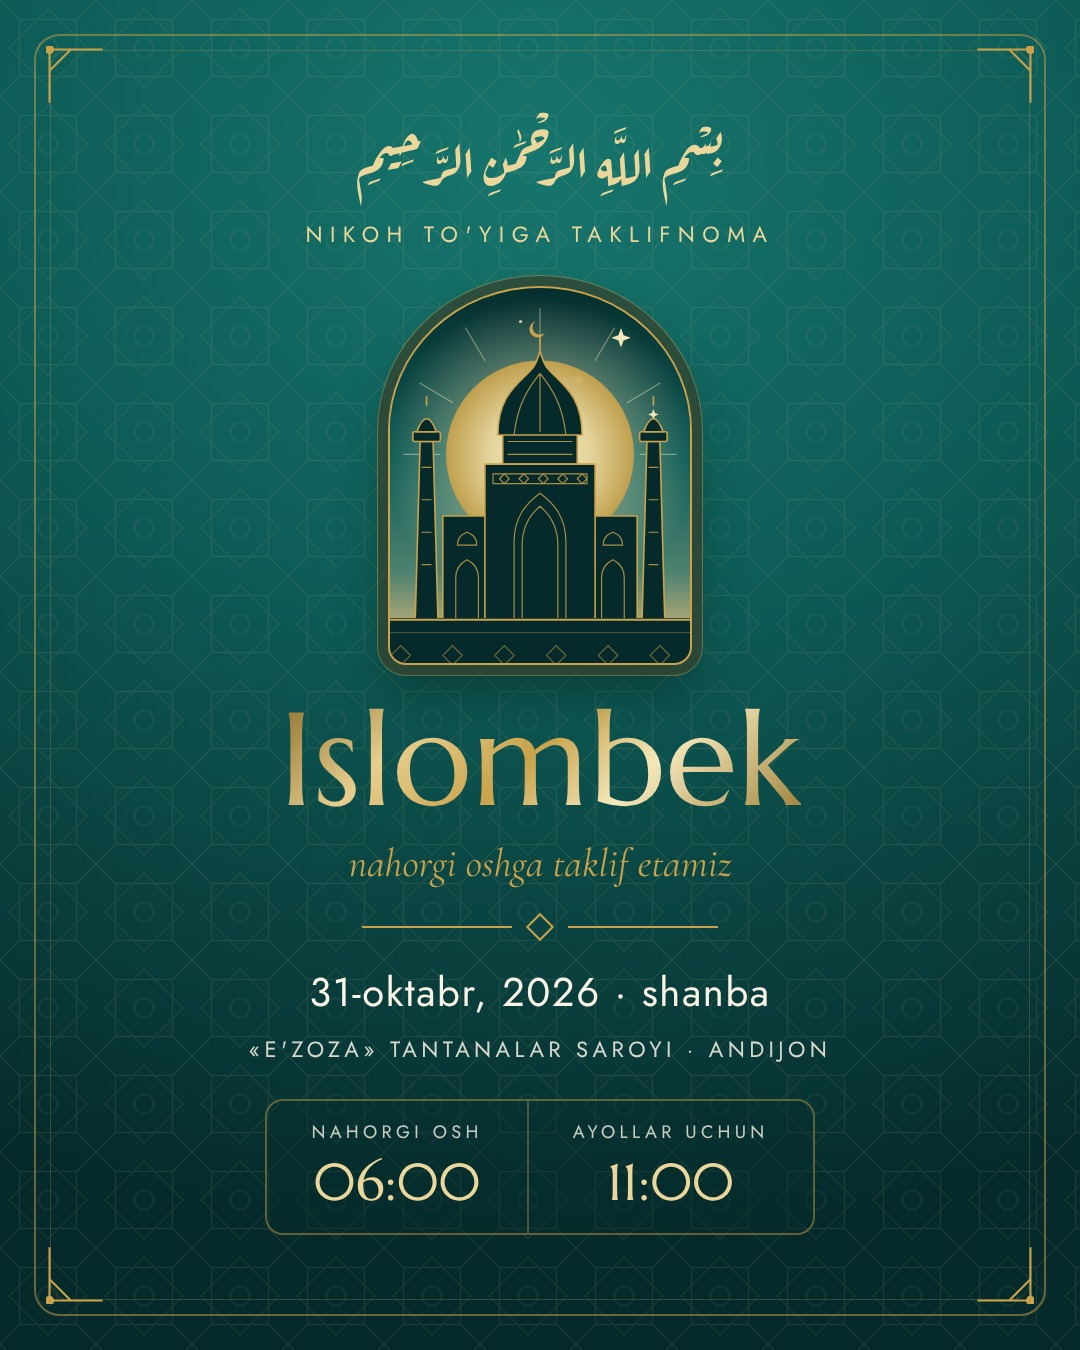
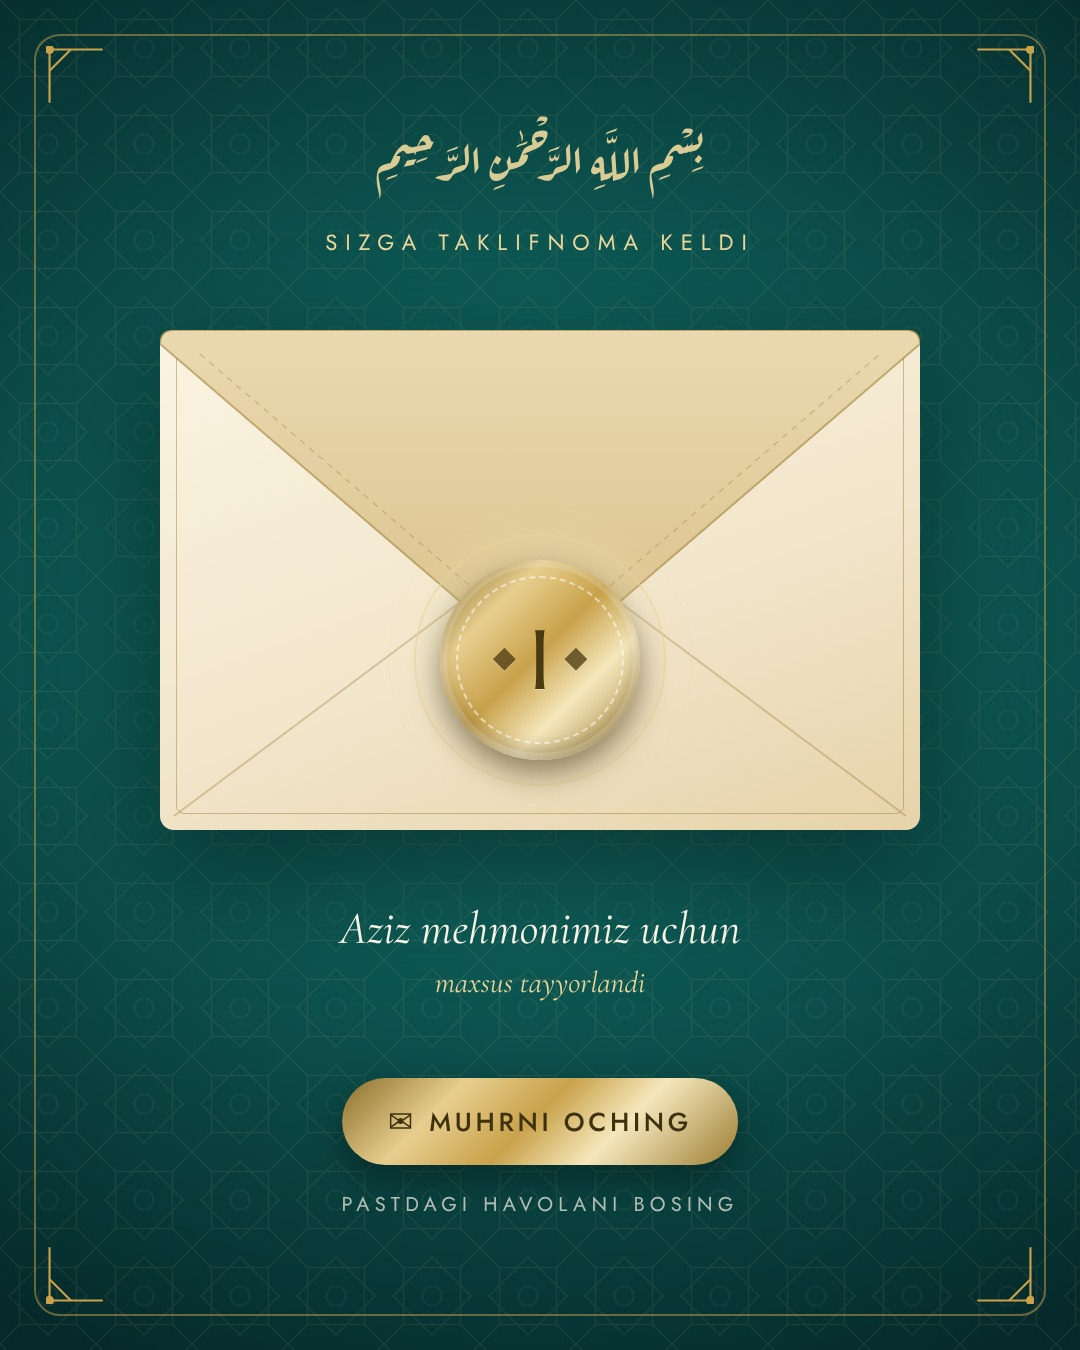
Telegram rasmi: muhrlangan konvert — tafsilotlar yo'q, linkni bosishga undaydi
Avvalgi rasmda sana, vaqt, joy bor edi — mehmon linkni ochmasdi.
Endi faqat yopiq konvert va oltin muhr; saytda ham shu muhr kutib oladi.

Claude-Session: https://claude.ai/code/session_01MzyA1Gsh5s9HjPubU1fQyQ

diff --git a/tools/taklifnoma-rasm.html b/tools/taklifnoma-rasm.html
@@ -1,5 +1,5 @@
 <!DOCTYPE html><html><head><meta charset="utf-8">
-<link href="https://fonts.googleapis.com/css2?family=Aref+Ruqaa&family=Marcellus&family=Cormorant+Garamond:ital,wght@0,400;1,400&family=Jost:wght@300;400;500&display=swap" rel="stylesheet">
+<link href="https://fonts.googleapis.com/css2?family=Aref+Ruqaa&family=Marcellus&family=Cormorant+Garamond:ital,wght@0,400;0,600;1,400&family=Jost:wght@300;400;500&display=swap" rel="stylesheet">
 <style>
 :root{
   --ink:#10262A;
@@ -34,128 +34,59 @@
 *{margin:0;padding:0;box-sizing:border-box}
 html,body{width:1080px;height:1350px}
 body{position:relative;overflow:hidden;color:var(--cream);font-family:'Jost',sans-serif;text-align:center;
-  background:radial-gradient(120% 80% at 50% 12%,var(--teal-600) 0%,var(--teal-700) 42%,var(--teal-900) 100%)}
-.girih{position:absolute;inset:0;background:var(--girih-lt);background-size:96px;opacity:.10}
+  background:radial-gradient(90% 60% at 50% 46%,#17756D 0%,#0E5C57 38%,#062A2B 100%)}
+.girih{position:absolute;inset:0;background:var(--girih-lt);background-size:96px;opacity:.09}
 .frame{position:absolute;inset:34px;border:2px solid rgba(201,162,75,.5);border-radius:26px}
-.frame2{position:absolute;inset:50px;border:1px solid rgba(201,162,75,.25);border-radius:18px}
 .c{position:absolute;width:78px;height:78px;background:no-repeat center/contain var(--corner)}
 .tl{top:46px;left:46px}.tr{top:46px;right:46px;transform:scaleX(-1)}.bl{bottom:46px;left:46px;transform:scaleY(-1)}.br{bottom:46px;right:46px;transform:scale(-1,-1)}
-.in{position:absolute;inset:0;display:flex;flex-direction:column;align-items:center;justify-content:center;padding:90px}
-.bism{font-family:'Aref Ruqaa',serif;font-size:56px;color:var(--gold-lt);line-height:1.6}
-.eye{margin-top:14px;font-size:22px;letter-spacing:.34em;text-transform:uppercase;color:var(--gold-lt)}
-.arch{width:300px;margin:38px 0 30px}
-.arch__inner{position:relative;aspect-ratio:4/5;border-radius:50% 50% 16px 16px/38% 38% 16px 16px;overflow:hidden;
-  box-shadow:0 0 0 2px var(--gold),0 0 0 12px rgba(6,42,43,.6),0 0 0 13px rgba(201,162,75,.45),0 24px 50px rgba(0,0,0,.35)}
-.arch svg{position:absolute;inset:-4%;width:108%;height:108%}
-.name{font-family:'Marcellus',serif;font-size:132px;line-height:1;background:var(--foil);-webkit-background-clip:text;background-clip:text;color:transparent}
-.sub{font-family:'Cormorant Garamond',serif;font-style:italic;font-size:40px;color:var(--gold);margin-top:14px}
-.orn{display:flex;align-items:center;gap:18px;margin:30px 0 26px}
-.orn i{width:150px;height:2px;background:var(--gold)}
-.orn b{width:20px;height:20px;border:2px solid var(--gold);transform:rotate(45deg)}
-.date{font-size:40px;letter-spacing:.04em}
-.venue{margin-top:12px;font-size:22px;letter-spacing:.2em;text-transform:uppercase;color:rgba(250,244,231,.85)}
-.times{display:flex;margin-top:34px;border:2px solid rgba(201,162,75,.45);border-radius:18px;background:rgba(6,42,43,.3)}
-.times div{padding:18px 44px}.times div+div{border-left:2px solid rgba(201,162,75,.35)}
-.times span{display:block;font-size:18px;letter-spacing:.24em;text-transform:uppercase;color:rgba(250,244,231,.8)}
-.times strong{display:block;font-family:'Marcellus',serif;font-weight:400;font-size:52px;color:var(--gold-lt);margin-top:4px}
+.bism{position:absolute;top:118px;left:0;right:0;font-family:'Aref Ruqaa',serif;font-size:50px;color:var(--gold-lt);opacity:.92}
+.eye{position:absolute;top:226px;left:0;right:0;font-size:22px;letter-spacing:.36em;text-transform:uppercase;color:var(--gold-lt)}
+
+/* Konvert */
+.env{position:absolute;left:50%;top:330px;width:760px;height:500px;transform:translateX(-50%);
+  filter:drop-shadow(0 40px 60px rgba(0,0,0,.45))}
+.env__body{position:absolute;inset:0;border-radius:14px;
+  background:linear-gradient(160deg,#FBF4E2 0%,#F2E6CC 55%,#E6D3AA 100%)}
+.env__body::before{content:"";position:absolute;inset:16px;border:1.5px solid rgba(154,121,48,.45);border-radius:8px}
+.env svg{position:absolute;inset:0;width:100%;height:100%}
+/* Muhr */
+.seal{position:absolute;left:50%;top:330px;transform:translate(-50%,-50%);width:200px;height:200px}
+.glow{position:absolute;inset:-70px;border-radius:50%;background:radial-gradient(circle,rgba(245,231,188,.55) 0%,rgba(245,231,188,0) 65%)}
+.wax{position:absolute;inset:0;border-radius:50%;background:var(--foil);
+  box-shadow:0 14px 30px rgba(62,49,16,.55),inset 0 0 0 7px rgba(255,255,255,.18),inset 0 -10px 18px rgba(74,58,18,.35)}
+.wax::before{content:"";position:absolute;inset:16px;border-radius:50%;border:2px dashed rgba(255,255,255,.55)}
+.wax b{position:absolute;inset:0;display:flex;align-items:center;justify-content:center;gap:12px;
+  font-family:'Marcellus',serif;font-weight:400;font-size:84px;color:#4A3A12;text-shadow:0 1px 0 rgba(255,255,255,.35)}
+.wax b i{font-style:normal;font-size:24px;opacity:.75}
+.ring{position:absolute;inset:-26px;border-radius:50%;border:2px solid rgba(235,214,155,.55)}
+.ring2{position:absolute;inset:-52px;border-radius:50%;border:1px solid rgba(235,214,155,.25)}
+
+.for{position:absolute;top:900px;left:0;right:0;font-family:'Cormorant Garamond',serif;font-style:italic;font-size:46px;color:var(--cream)}
+.for small{display:block;font-size:30px;color:var(--gold-lt);margin-top:8px}
+.cta{position:absolute;top:1078px;left:50%;transform:translateX(-50%);display:flex;align-items:center;gap:16px;white-space:nowrap;
+  padding:22px 46px;border-radius:999px;background:var(--foil);color:#3E3110;
+  font-size:26px;font-weight:500;letter-spacing:.14em;text-transform:uppercase;box-shadow:0 14px 34px rgba(0,0,0,.35)}
+.cta span{font-size:30px;letter-spacing:0}
+.hint{position:absolute;top:1190px;left:0;right:0;font-size:20px;letter-spacing:.26em;text-transform:uppercase;color:rgba(250,244,231,.7)}
 </style></head><body>
-<div class="girih"></div><div class="frame"></div><div class="frame2"></div>
+<div class="girih"></div><div class="frame"></div>
 <span class="c tl"></span><span class="c tr"></span><span class="c bl"></span><span class="c br"></span>
-<div class="in">
-  <p class="bism" dir="rtl">بِسْمِ اللَّهِ الرَّحْمَٰنِ الرَّحِيمِ</p>
-  <p class="eye">Nikoh to'yiga taklifnoma</p>
-  <div class="arch"><div class="arch__inner"><svg class="arch__art" id="archArt" viewBox="0 0 200 250" preserveAspectRatio="xMidYMax slice" aria-hidden="true">
-          <defs>
-            <linearGradient id="artSky" x1="0" y1="0" x2="0" y2="1">
-              <stop offset="0" stop-color="#062A2B"/>
-              <stop offset=".46" stop-color="#0E5C57"/>
-              <stop offset=".74" stop-color="#4E8270"/>
-              <stop offset=".9" stop-color="#C9B278"/>
-              <stop offset="1" stop-color="#EBD69B"/>
-            </linearGradient>
-            <radialGradient id="artSun" cx=".5" cy=".5" r=".5">
-              <stop offset="0" stop-color="#FFF4D2"/>
-              <stop offset=".55" stop-color="#EBD69B"/>
-              <stop offset="1" stop-color="#C9A24B"/>
-            </radialGradient>
-            <radialGradient id="artGlow" cx=".5" cy=".5" r=".5">
-              <stop offset="0" stop-color="#F5E7BC" stop-opacity=".75"/>
-              <stop offset="1" stop-color="#F5E7BC" stop-opacity="0"/>
-            </radialGradient>
-          </defs>
+<p class="bism" dir="rtl">بِسْمِ اللَّهِ الرَّحْمَٰنِ الرَّحِيمِ</p>
+<p class="eye">Sizga taklifnoma keldi</p>
 
-          <rect width="200" height="250" fill="url(#artSky)"/>
-
-          <!-- tong: yulduzlar hali so'nmagan -->
-          <g class="art__sky">
-            <path class="art__star" d="M150 34l1.6 4.4 4.4 1.6-4.4 1.6-1.6 4.4-1.6-4.4-4.4-1.6 4.4-1.6Z" fill="#F5E7BC"/>
-            <path class="art__star art__star--2" d="M124 62l1 2.8 2.8 1-2.8 1-1 2.8-1-2.8-2.8-1 2.8-1Z" fill="#F5E7BC"/>
-            <path class="art__star art__star--3" d="M170 84l.9 2.4 2.4.9-2.4.9-.9 2.4-.9-2.4-2.4-.9 2.4-.9Z" fill="#F5E7BC"/>
-            <circle cx="88" cy="30" r="1" fill="#F5E7BC" opacity=".8"/>
-            <circle cx="34" cy="96" r=".9" fill="#F5E7BC" opacity=".6"/>
-            <circle cx="182" cy="52" r=".9" fill="#F5E7BC" opacity=".7"/>
-          </g>
-
-          <!-- chiqayotgan quyosh -->
-          <g class="art__sun">
-            <circle cx="100" cy="112" r="96" fill="url(#artGlow)"/>
-            <g stroke="#F5E7BC" stroke-width=".7" stroke-linecap="round" opacity=".45">
-              <path d="M100 44V22M66 54 54 34M134 54 146 34M46 80 26 68M154 80 174 68M38 112H16M162 112H184"/>
-            </g>
-            <circle cx="100" cy="112" r="58" fill="url(#artSun)" opacity=".92"/>
-          </g>
-
-          <!-- me'morchilik: gumbaz, peshtoq, minoralar -->
-          <g class="art__city" fill="#062A2B" stroke="#C9A24B" stroke-width="1" stroke-linejoin="round">
-            <!-- minoralar -->
-            <path d="M23 214 26 104h8l3 110Z"/>
-            <path d="M163 214 166 104h8l3 110Z"/>
-            <rect x="21.5" y="98" width="17" height="6" rx="1"/>
-            <rect x="161.5" y="98" width="17" height="6" rx="1"/>
-            <path d="M24 98q6-16 12 0Z"/>
-            <path d="M164 98q6-16 12 0Z"/>
-            <path d="M30 82v-6M170 82v-6" fill="none"/>
-
-            <!-- yon qanotlar -->
-            <path d="M40 214V150h30v64Z"/>
-            <path d="M130 214V150h30v64Z"/>
-
-            <!-- gumbaz -->
-            <rect x="77" y="98" width="46" height="20"/>
-            <path d="M74 100c0-26 14-32 22-42 2-3 3-6 4-10 1 4 2 7 4 10 8 10 22 16 22 42Z"/>
-            <path d="M100 48V38" fill="none"/>
-            <path d="M97 30a5 5 0 1 0 6 7 4 4 0 1 1-6-7Z" fill="#C9A24B" stroke="none"/>
-
-            <!-- peshtoq -->
-            <path d="M66 214V118h68v96Z"/>
-          </g>
-
-          <!-- naqshlar (faqat oltin chiziq) -->
-          <g fill="none" stroke="#C9A24B" stroke-width=".7" opacity=".85">
-            <path d="M84 100c2-18 8-28 16-38M116 100c-2-18-8-28-16-38M100 62v36"/>
-            <path d="M80 104h40M80 112h40"/>
-            <path d="M84 214v-48c0-16 8-24 16-30 8 6 16 14 16 30v48"/>
-            <path d="M89 214v-46c0-12 5-19 11-24 6 5 11 12 11 24v46"/>
-            <path d="M71 124h58v6H71Z"/>
-            <path d="M75 127l3-3 3 3-3 3ZM87 127l3-3 3 3-3 3ZM99 127l3-3 3 3-3 3ZM111 127l3-3 3 3-3 3ZM123 127l3-3 3 3-3 3Z"/>
-            <path d="M48 214v-26c0-6 3-9 7-11 4 2 7 5 7 11v26M138 214v-26c0-6 3-9 7-11 4 2 7 5 7 11v26"/>
-            <path d="M49 168c0-5 3-7 6-8 3 1 6 3 6 8ZM139 168c0-5 3-7 6-8 3 1 6 3 6 8Z"/>
-            <path d="M27 120h6M27 140h6M27 160h6M27 180h6M167 120h6M167 140h6M167 160h6M167 180h6"/>
-          </g>
-
-          <!-- yer va oldingi naqshli chiziq -->
-          <rect y="213" width="200" height="37" fill="#062A2B"/>
-          <path d="M0 214H200" stroke="#C9A24B" stroke-width="1.2"/>
-          <path d="M0 222h200" stroke="#C9A24B" stroke-width=".5" opacity=".5"/>
-          <g fill="none" stroke="#C9A24B" stroke-width=".7" opacity=".55">
-            <path d="M8 236l6-6 6 6-6 6ZM40 236l6-6 6 6-6 6ZM72 236l6-6 6 6-6 6ZM104 236l6-6 6 6-6 6ZM136 236l6-6 6 6-6 6ZM168 236l6-6 6 6-6 6Z"/>
-          </g>
-        </svg></div></div>
-  <p class="name">Islombek</p>
-  <p class="sub">nahorgi oshga taklif etamiz</p>
-  <div class="orn"><i></i><b></b><i></i></div>
-  <p class="date">31-oktabr, 2026 · shanba</p>
-  <p class="venue">«E'zoza» tantanalar saroyi · Andijon</p>
-  <div class="times"><div><span>Nahorgi osh</span><strong>06:00</strong></div><div><span>Ayollar uchun</span><strong>11:00</strong></div></div>
+<div class="env">
+  <div class="env__body"></div>
+  <svg viewBox="0 0 760 500" preserveAspectRatio="none">
+    <defs><linearGradient id="flap" x1="0" y1="0" x2="0" y2="1">
+      <stop offset="0" stop-color="#EAD9B0"/><stop offset="1" stop-color="#D9C08A"/></linearGradient></defs>
+    <path d="M14 486 330 250M746 486 430 250" stroke="rgba(154,121,48,.35)" stroke-width="2" fill="none"/>
+    <path d="M0 14Q0 0 14 0H746Q760 0 760 14L392 330Q380 340 368 330Z" fill="url(#flap)" stroke="rgba(154,121,48,.55)" stroke-width="2"/>
+    <path d="M40 24 380 316 720 24" stroke="rgba(154,121,48,.4)" stroke-width="1.2" fill="none" stroke-dasharray="6 6"/>
+  </svg>
+  <div class="seal"><div class="glow"></div><div class="ring2"></div><div class="ring"></div><div class="wax"><b><i>◆</i>I<i>◆</i></b></div></div>
 </div>
+
+<p class="for">Aziz mehmonimiz uchun<small>maxsus tayyorlandi</small></p>
+<div class="cta"><span>✉</span>Muhrni oching</div>
+<p class="hint">pastdagi havolani bosing</p>
 </body></html>
